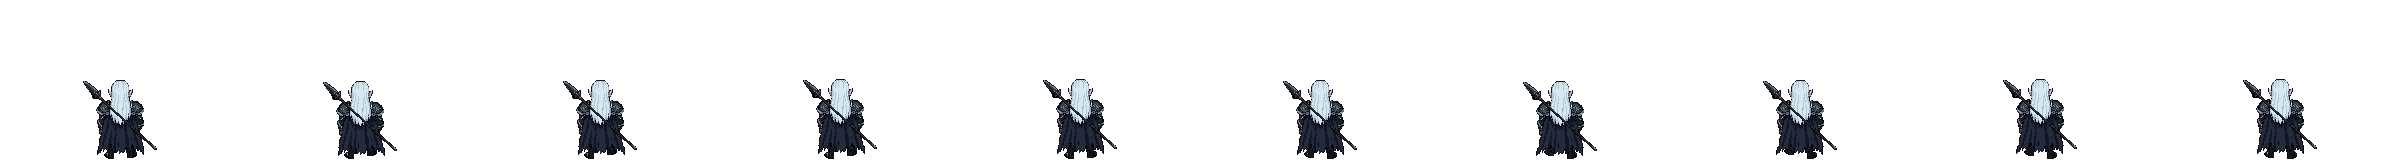
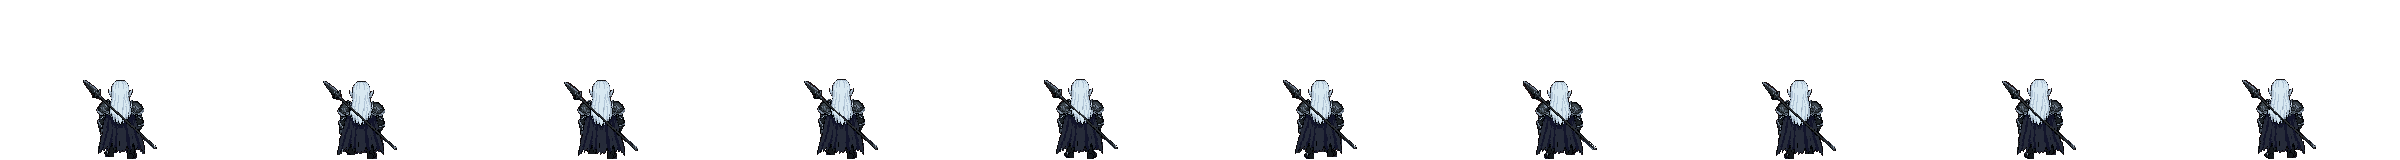
Art: Elvis's three runs rebuilt from parts that are never repainted (art review fix)
The side run's head, hair and upper body are fixed (idle_S's head and long hair on one Gemini frame), only the legs come from Gemini's frames, dropped onto the feet row; the maroon outline fringe is gone. The front and back runs now sway, bounce the spear, bend the knee, move the foot and swing the cape. stride.py gained the parts this needs.

diff --git a/art/tools/stride.py b/art/tools/stride.py
@@ -1,56 +1,184 @@
-# A still stance -> a run cycle with no flicker. Frame 0 of an idle sheet is cut into parts (the pixels from row
-# "from" down, in columns "cols"; the first part to claim a pixel keeps it) and the body (everything else). Each frame
-# moves every part by its own dx/dy (plus the bob if "bob": true) and the body by the bob (px, + = down); "under"
-# parts (the legs) are drawn behind the body. The eyes, trim and hair stay the stance's own pixels, and every frame
-# must keep a foot on the stance's feet line.
-# Usage: uv run --with pillow --with numpy python art/tools/stride.py art/<c>/stride_<key>.json --manifest art/<c>/manifest.json
-# Recipe: {"idle": "idle_F.png", "out": "run_F.png", "key": "run_F", "fps": 10, "bob": [1, 2, 0, ...],
-#          "parts": [{"what": "left leg", "cols": [100, 117], "from": 145, "dy": [0, 0, 0, -3, -7, -4], "under": true}, ...]}
+# A still stance (or one good frame) -> a run cycle with no flicker. The base frame ("idle", frame "frame", default 0) is
+# cut into parts and the body (everything else); each output frame moves every part by its own dx/dy (plus the body's bob
+# and sway if "bob": true) and the body by "bob" (px, + = down) and "sway" (px, + = right). Pixels never get repainted, so
+# nothing shimmers: the eyes, trim and hair stay the stance's own, and every frame must keep a foot on the feet line.
+# Usage: uv run --with pillow --with numpy --with scipy python art/tools/stride.py art/<c>/stride_<key>.json --manifest art/<c>/manifest.json
+# Recipe: {"idle": "idle_F.png", "out": "run_F.png", "key": "run_F", "fps": 13, "bob": [1, 2, 0, ...], "sway": [0, 1, ...],
+#          "fringe": "#221616", "erase": [<region>, ...], "fill": true,
+#          "parts": [{"what": "left leg", "cols": [100, 117], "from": 145, "dy": [0, -3, -7, ...], "under": true}, ...]}
+#  A region: "cols": [x0, x1] with "from"/"to" (rows, both in; "to" defaults to the bottom), or "line": [x0, y0, x1, y1]
+#    with "width" (a spear shaft), or "any": [<region>, ...] (their union); optional "luma": [lo, hi] keeps only pixels
+#    that bright (hair: [90, 255]), "ring": true adds the dark 1 px outline round them, "skip": ["#rrggbb", ...] leaves
+#    those colours out (the cape under a spear shaft). "feet" (top level) sets the
+#    feet row when the base's own legs are erased.
+#  A part without "src" claims its pixels from the base (the first part to claim a pixel keeps it). With "src" (a sheet next
+#    to the recipe) and "frames" (one source frame per output frame) its pixels come from that sheet instead, moved by
+#    "sx" (per frame, to line the source frames up) and, with "feet": true, dropped until its lowest pixel is on the feet
+#    line; "thin": true drops strokes under 3 px wide and specks (a stray spear butt, a dotted outline).
+#  Per-frame lists: "dx", "dy", "shear" (px at the region's last row, 0 at its first: hair streaming back); "bob": true adds
+#    the body's bob and sway, "lag": n uses the bob and sway of n frames before (the spear bouncing after the body).
+#  "under": true draws the part behind the body (legs under the hem), else over it, in the listed order; a list sets it
+#    per frame (from behind, a boot kicked back comes in front of the cape).
+#  "erase": regions removed from the base first. "fringe": a colour edging the outline (a clean-up left-over): deleted
+#    where the pixel inside is already dark, else made the outline colour. "fill": holes a moved part leaves inside the
+#    body take the colour of the body pixel next to them.
 import argparse, json, os, sys
 import numpy as np
 from PIL import Image
+from scipy import ndimage
 sys.path.insert(0, os.path.join(os.path.dirname(os.path.abspath(__file__)), '..'))
 from sprites import manifest
 
-p = argparse.ArgumentParser()
-p.add_argument('recipe'); p.add_argument('--manifest', required=True)
-A = p.parse_args()
-R = json.load(open(A.recipe)); d = os.path.dirname(A.recipe)
-cw, ch = json.load(open(A.manifest))['cell']
-a = np.asarray(Image.open(os.path.join(d, R['idle'])).convert('RGBA'))[:ch, :cw].copy()
-on = a[..., 3] > 0
-bob = R['bob']; n = len(bob)
-free = on.copy(); parts = []
-for q in R['parts']:
-    m = np.zeros(on.shape, bool); m[q['from']:, q['cols'][0]:q['cols'][1] + 1] = True
-    m &= free; free &= ~m
-    dx, dy = q.get('dx', [0] * n), q.get('dy', [0] * n)
-    assert len(dx) == n and len(dy) == n, f"{q['what']}: dx and dy need one value per frame, like bob"
-    parts.append((np.where(m[..., None], a, 0), q, dx, dy))
-body = np.where(free[..., None], a, 0)
-feet = np.nonzero(on.any(1))[0].max()
+FOUR = [[0, 1, 0], [1, 1, 1], [0, 1, 0]]
+OUTLINE = (1, 4, 6)
 
 
-def moved(img, dx, dy):                                   # + = right / down; what leaves the cell is dropped
+def luma(img):
+    return img[..., :3].astype(float) @ [0.3, 0.59, 0.11]
+
+
+def defringe(f, hexc):
+    c = tuple(int(hexc[i:i + 2], 16) for i in (1, 3, 5))
+    f = f.copy(); on = f[..., 3] > 0; fr = on & (f[..., :3] == c).all(-1)
+    edge = fr & ndimage.binary_dilation(~on, FOUR)
+    L = luma(f); h, w = on.shape
+    for y, x in zip(*np.nonzero(edge)):
+        inner = [(y + a, x + b) for a, b in ((1, 0), (-1, 0), (0, 1), (0, -1))
+                 if 0 <= y + a < h and 0 <= x + b < w and on[y + a, x + b] and not fr[y + a, x + b]]
+        if any(L[q] < 60 for q in inner):
+            f[y, x] = 0                         # an outline is already there: the fringe sits outside it
+        else:
+            f[y, x, :3] = OUTLINE              # hair or a lit edge: the fringe becomes its outline
+    rest = (f[..., 3] > 0) & (f[..., :3] == c).all(-1)
+    f[rest, :3] = (0x14, 0x18, 0x1c)            # inside the figure: a neutral dark
+    return f
+
+
+def region(q, img):
+    h, w = img.shape[:2]; yy, xx = np.mgrid[:h, :w]
+    if 'any' in q:                              # a union of regions
+        return np.logical_or.reduce([region(r, img) for r in q['any']])
+    if 'line' in q:
+        x0, y0, x1, y1 = q['line']; d = np.array([x1 - x0, y1 - y0], float); n = d / np.hypot(*d)
+        t = (xx - x0) * n[0] + (yy - y0) * n[1]
+        m = (np.abs((xx - x0) * n[1] - (yy - y0) * n[0]) <= q['width'] / 2) & (t >= 0) & (t <= np.hypot(*d))
+    else:
+        m = (yy >= q.get('from', 0)) & (yy <= q.get('to', h - 1)) & (xx >= q['cols'][0]) & (xx <= q['cols'][1])
+    on = img[..., 3] > 0
+    for hexc in q.get('skip', []):              # colours to leave out (the cape behind a spear shaft)
+        on = on & ~(img[..., :3] == tuple(int(hexc[i:i + 2], 16) for i in (1, 3, 5))).all(-1)
+    if 'luma' in q:
+        L = luma(img); keep = m & on & (L >= q['luma'][0]) & (L <= q['luma'][1])
+        if q.get('ring'):
+            keep |= ndimage.binary_dilation(keep, FOUR) & m & on & (L < 40)
+        m = keep
+    return m & on
+
+
+def moved(img, dx, dy):                        # + = right / down; what leaves the cell is dropped
     out = np.zeros_like(img)
-    ys, xs = np.nonzero(img[..., 3] > 0)
-    keep = (ys + dy >= 0) & (ys + dy < ch) & (xs + dx >= 0) & (xs + dx < cw)
+    ys, xs = np.nonzero(img[..., 3] > 0); h, w = img.shape[:2]
+    keep = (ys + dy >= 0) & (ys + dy < h) & (xs + dx >= 0) & (xs + dx < w)
     out[ys[keep] + dy, xs[keep] + dx] = img[ys[keep], xs[keep]]
     return out
 
 
-sheet = np.zeros((ch, cw * n, 4), np.uint8)
-for i in range(n):
-    f = np.zeros_like(a)
-    layers = [moved(img, dx[i], dy[i] + (bob[i] if q.get('bob') else 0)) for img, q, dx, dy in parts]
-    under = [l for l, (_, q, _, _) in zip(layers, parts) if q.get('under')]
-    over = [l for l, (_, q, _, _) in zip(layers, parts) if not q.get('under')]
-    for l in under + [moved(body, 0, bob[i])] + over:
-        f[l[..., 3] > 0] = l[l[..., 3] > 0]
-    assert np.nonzero((f[..., 3] > 0).any(1))[0].max() == feet, f'frame {i}: no foot on the feet line'
-    sheet[:, i * cw:(i + 1) * cw] = f
-cols = lambda x: {tuple(c) for c in x[x[..., 3] > 0][:, :3]}
-assert cols(sheet) <= cols(a), 'a colour that is not in the stance'
-Image.fromarray(sheet).save(os.path.join(d, R['out']))
-manifest(A.manifest, R['key'], R['out'], n, R['fps'], True, (cw, ch))
-print(R['key'], n, 'frames, feet row', feet, 'sheet', (cw * n, ch))
+def sheared(img, top, bottom, px):             # each row from top (0) to bottom (px) moves right by its share
+    out = np.zeros_like(img)
+    for y in range(img.shape[0]):
+        s = 0 if y <= top else round(px * min(1.0, (y - top) / max(1, bottom - top)))
+        out[y] = np.roll(img[y], s, axis=0)
+        if s > 0:
+            out[y, :s] = 0
+        elif s < 0:
+            out[y, s:] = 0
+    return out
+
+
+def thin_out(img):
+    m = img[..., 3] > 0
+    o = ndimage.binary_dilation(ndimage.binary_opening(m, np.ones((3, 3))), FOUR) & m
+    lab, n = ndimage.label(o)
+    if n:
+        size = ndimage.sum(o, lab, range(1, n + 1))
+        o = np.isin(lab, [j + 1 for j in range(n) if size[j] >= 12])
+    return np.where(o[..., None], img, 0)
+
+
+def main():
+    p = argparse.ArgumentParser()
+    p.add_argument('recipe'); p.add_argument('--manifest', required=True)
+    A = p.parse_args()
+    R = json.load(open(A.recipe)); d = os.path.dirname(A.recipe)
+    cw, ch = json.load(open(A.manifest))['cell']
+    sheets = {}
+
+    def cell(name, k):
+        if name not in sheets:
+            sheets[name] = np.asarray(Image.open(os.path.join(d, name)).convert('RGBA')).copy()
+        c = sheets[name][:ch, k * cw:(k + 1) * cw].copy()
+        return defringe(c, R['fringe']) if 'fringe' in R else c
+
+    a = cell(R['idle'], R.get('frame', 0))
+    for q in R.get('erase', []):
+        a[region(q, a)] = 0
+    bob = R['bob']; n = len(bob); sway = R.get('sway', [0] * n)
+    assert len(sway) == n, 'sway: one value per frame, like bob'
+    free = a[..., 3] > 0; parts = []
+    for q in R['parts']:
+        lists = {k: q.get(k, [0] * n) for k in ('dx', 'dy', 'sx', 'shear')}
+        assert all(len(v) == n for v in lists.values()), f"{q['what']}: dx, dy, sx and shear need one value per frame, like bob"
+        if 'src' in q:
+            assert len(q['frames']) == n, f"{q['what']}: frames needs one source frame per output frame"
+            src = [cell(q['src'], k) for k in q['frames']]
+            src = [np.where(region(q, s)[..., None], s, 0) for s in src]
+            src = [thin_out(s) if q.get('thin') else s for s in src]
+        else:
+            m = region(q, a) & free; free &= ~m
+            src = [np.where(m[..., None], a, 0)] * n
+        parts.append((q, src, lists))
+    body = np.where(free[..., None], a, 0)
+    feet = R.get('feet', int(np.nonzero((a[..., 3] > 0).any(1))[0].max()))
+    rows = lambda img: np.nonzero((img[..., 3] > 0).any(1))[0]
+
+    sheet = np.zeros((ch, cw * n, 4), np.uint8)
+    for i in range(n):
+        layers = []
+        for q, src, L in parts:
+            img = src[i]
+            if L['shear'][i]:
+                r = rows(img)
+                img = sheared(img, q.get('from', r.min()), q.get('to', r.max()), L['shear'][i])
+            img = moved(img, L['sx'][i], 0)
+            if q.get('feet'):
+                img = moved(img, 0, feet - rows(img).max())
+            j = (i - q.get('lag', 0)) % n
+            b, s = (bob[j], sway[j]) if q.get('bob') else (0, 0)
+            layers.append((q, moved(img, L['dx'][i] + s, L['dy'][i] + b)))
+        f = np.zeros_like(a); base = moved(body, sway[i], bob[i])
+        under = lambda q: q['under'][i] if isinstance(q.get('under'), list) else q.get('under')
+        for l in [l for q, l in layers if under(q)] + [base] + [l for q, l in layers if not under(q)]:
+            f[l[..., 3] > 0] = l[l[..., 3] > 0]
+        if R.get('fill'):      # a hole a moved part left inside the stance's outline, filled on two sides: the nearest body colour
+            shell = moved(a, sway[i], bob[i])[..., 3] > 0
+            for _ in range(3):
+                on = f[..., 3] > 0
+                hole = shell & ~on & (sum(np.roll(on, s, ax) for s in (1, -1) for ax in (0, 1)) >= 2)
+                if not hole.any():
+                    break
+                bon = base[..., 3] > 0
+                idx = ndimage.distance_transform_edt(~bon, return_distances=False, return_indices=True)
+                f[hole] = base[idx[0][hole], idx[1][hole]]
+        assert rows(f).max() == feet, f'frame {i}: no foot on the feet line ({rows(f).max()} != {feet})'
+        sheet[:, i * cw:(i + 1) * cw] = f
+    pal = os.path.join(d, 'palette.png')
+    if os.path.exists(pal):
+        ok = {tuple(c) for c in np.asarray(Image.open(pal).convert('RGB')).reshape(-1, 3)}
+        assert {tuple(c) for c in sheet[sheet[..., 3] > 0][:, :3]} <= ok, 'a colour that is not in palette.png'
+    assert set(np.unique(sheet[..., 3])) <= {0, 255}, 'alpha must be on or off'
+    Image.fromarray(sheet).save(os.path.join(d, R['out']))
+    manifest(A.manifest, R['key'], R['out'], n, R['fps'], True, (cw, ch))
+    print(R['key'], n, 'frames, feet row', feet, 'sheet', (cw * n, ch))
+
+
+main()

diff --git a/art/elvis/notes.md b/art/elvis/notes.md
@@ -56,14 +56,19 @@ magenta canvas, uploaded with `master_x4.png` (on magenta) as image 2. Prompts: 
 | Sheet | Raw | Made with |
 | --- | --- | --- |
 | `idle_F` | (the master) | `breathe.py art/elvis/master.png --out art/elvis/idle_F.png --manifest art/elvis/manifest.json --key idle_F`; holds 0.3/0.2 s. `raw/idle_F_g1.jpeg` (4 frames from Gemini) was not used: tall, thin, small-headed copies |
-| `run_F` | (the master, as `idle_F` frame 0) | `stride.py art/elvis/stride_run_F.json --manifest art/elvis/manifest.json`: 10 frames at 13 fps, the legs lifted in turn (up to 7 px), the body bobbing 0-2 px, the cape's hem pieces swaying 1 px |
-| `run_S` | `raw/run_S_g2.jpeg` (2 rows of 5) | `sprites.py raw/run_S_g2.jpeg --cols 5 --rows 2 --split shapes --anchor head --fps 13 --touchup art/elvis/touchup_run_S.json` (eyes from `eyes.py --side`) |
-| `run_B` | (`idle_B` frame 0) | `stride.py art/elvis/stride_run_B.json --manifest art/elvis/manifest.json`: as `run_F`, the boots lifted up to 4 px under the cape, the hem below row 146 swaying 1 px |
+| `run_F` | (the master, as `idle_F` frame 0) | `stride.py art/elvis/stride_run_F.json --manifest art/elvis/manifest.json` (since the 25 Oct art review): 10 frames at 13 fps. The body bobs 0-2 px and sways 1 px toward the planted foot; the spear (blade and butt) bounces a frame behind the body; each leg is a knee (rows 144-149, drawn over the hem, 1 px lower when it comes forward) and a boot (row 150 down, lifted up to 7 px behind the knee and 2 px in toward the middle); the cape's sides swing 1 px a frame behind |
+| `run_S` | `raw/run_S_g2.jpeg` (2 rows of 5) -> `raw/run_S_g2_frames.png` (its first clean-up, kept as the legs' source) | `stride.py art/elvis/stride_run_S.json`: the upper body is Gemini frame 5 with its head erased and `idle_S`'s head, long hair and front lock pasted on (5 px ahead), so the head never changes; the hair streams 2-3 px back at its tips; the spear and front hands bounce a frame behind; the legs and cape hem come from one Gemini frame each, in step order (contact 5, down 1, passing 6, push 8, reach 4, then 7, 2, 6, 3, 9), lined up on frame 5 and dropped onto the feet row; strokes under 3 px (a stray spear butt, dotted outlines) dropped; the `#221616` fringe the first clean-up left round every outline deleted or made outline black. Was: `sprites.py raw/run_S_g2.jpeg --cols 5 --rows 2 --split shapes --anchor head --fps 13 --touchup art/elvis/touchup_run_S.json` (no longer used) |
+| `run_B` | (`idle_B` frame 0) | `stride.py art/elvis/stride_run_B.json`: as `run_F` (the same bob, sway and phase, mirrored since his left is on the left from behind); the spear blade and the shaft across his back bounce a frame behind; the hair's tips swing 1 px; the boots lift up to 6 px and come in front of the cape while kicked back; the cape's middle swings 1 px and its hem 2 px, a frame behind |
 
 The first `run_F` and `run_B` (Gemini's `raw/run_F_g4.jpeg` and `raw/run_B_g1.jpeg`, commits `ec76b02` and `300f881`) were
 replaced after review: Gemini repaints the armour in every frame, so it shimmered and the head's outline popped; the
 front lost the trim, the ears and the long locks, and the back's hair stopped at the shoulder blades (the idle's
 reaches the waist). `touchup_run_F.json` belongs to that first version and is no longer used.
+The second versions (25 Oct, the review after them): the side run repainted and jittered his head every frame (the eye
+moved 5 px sideways), its hair stopped at the shoulders, its feet floated 2-5 px above row 158 in 9 of 10 frames, and a
+maroon `#221616` fringe (10% of its pixels) edged every outline; the front and back runs only lifted their legs. All
+three are now `stride.py` recipes on the same cycle; `touchup_run_S.json` is no longer used either (the eye is
+`idle_S`'s own).
 | `idle_S`, `idle_B` | `raw/idle_SB_g1.jpeg` (the stance from the side and from behind) | `sprites.py raw/idle_SB_g1.jpeg --cols 2 --rows 1 --split shapes --anchor body --touchup art/elvis/touchup_idle_S.json`, each cell cropped to its figure, then `breathe.py` on each; holds 0.3/0.2 s |
 
 Not used: `run_F_g1` (the master's pose 8 times), `run_F_g2` (plain guide: tall and thin), `run_F_g3` (no cape, bare
